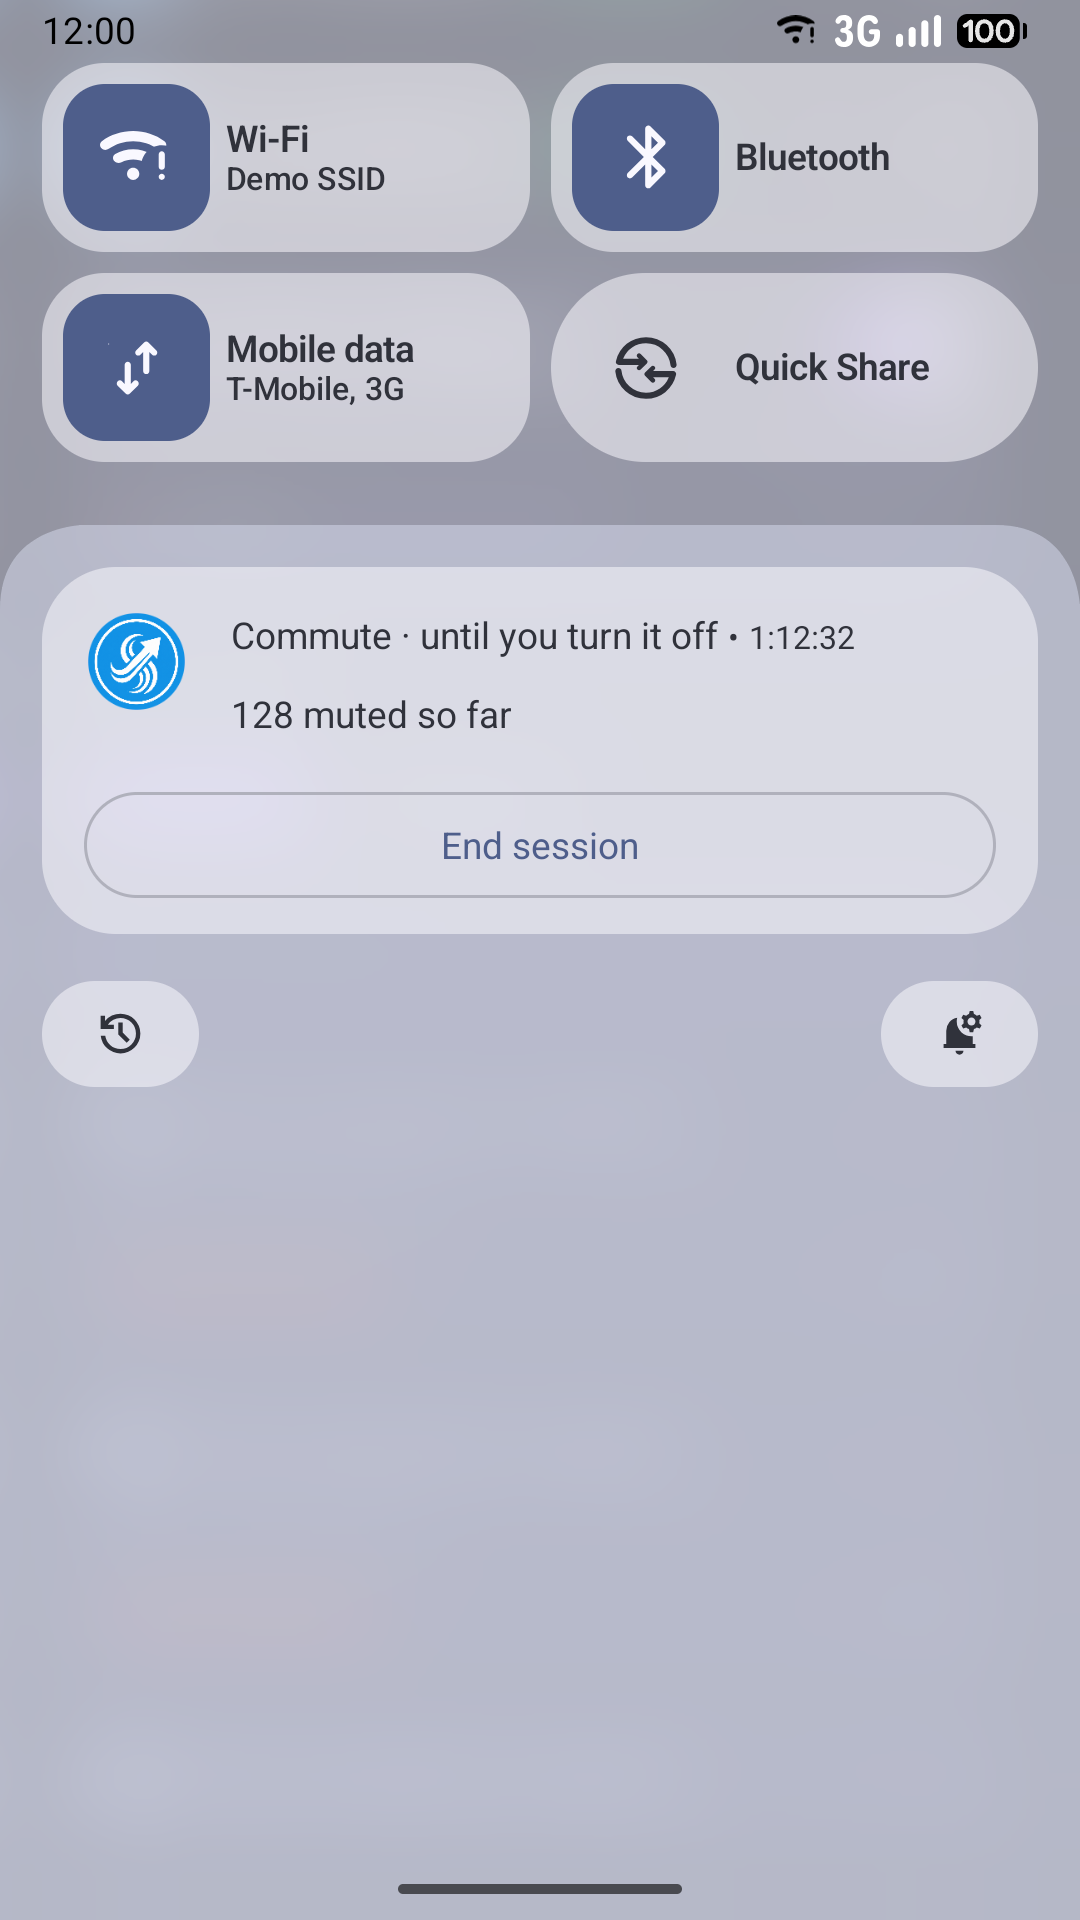
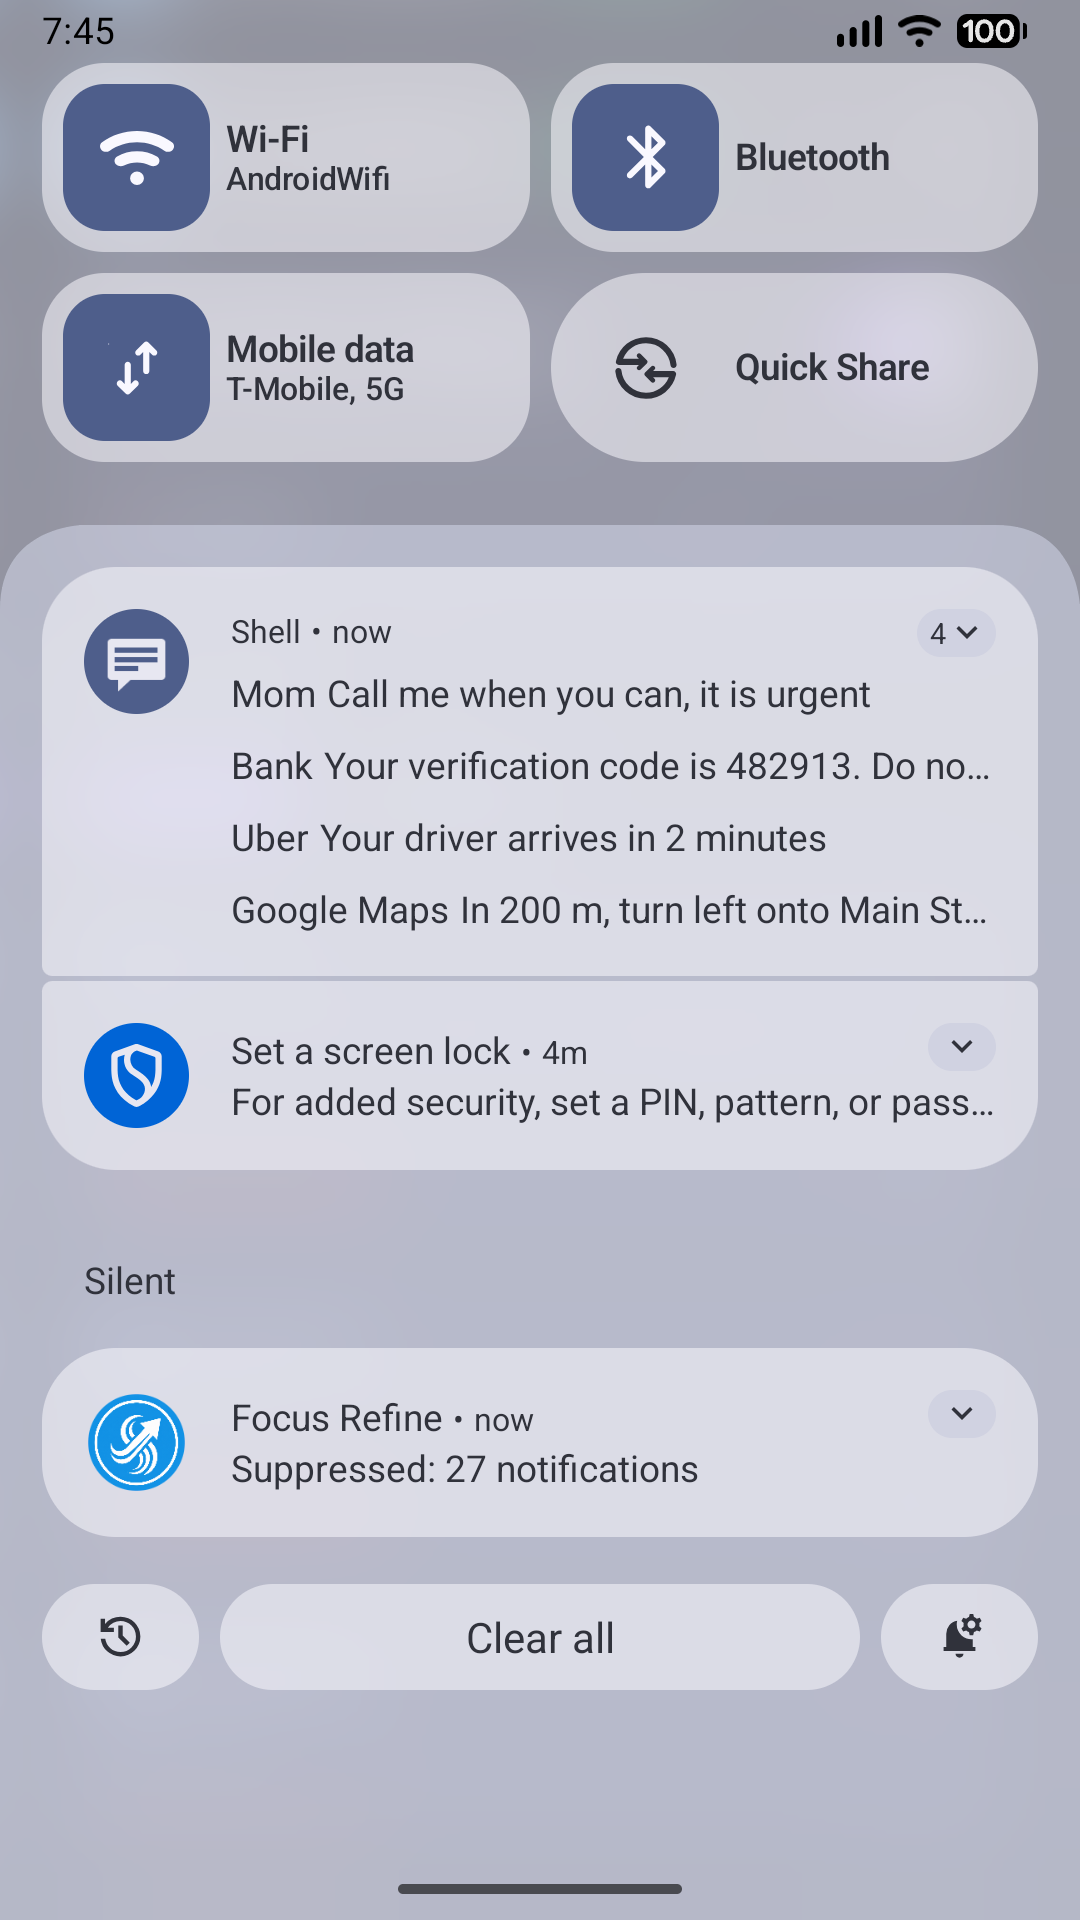
fix: leave group summaries alone so shown notifications stay in the shade
Android groups notifications under a summary. The summary has no text, so the
classifier muted it, and cancelling it removed every notification in its group,
including the ones that should be shown. A group summary is now skipped, and
each child is decided on its own.

diff --git a/app/src/main/java/com/focusrefine/app/NotificationFilterService.kt b/app/src/main/java/com/focusrefine/app/NotificationFilterService.kt
@@ -207,6 +207,12 @@ class NotificationFilterService : NotificationListenerService() {
             return
         }
 
+        // A group summary has no content of its own and stands for the notifications inside its group. Cancelling it
+        // would remove those children too, so a summary is never muted or counted; each child is decided on its own.
+        if (notification.flags and Notification.FLAG_GROUP_SUMMARY != 0) {
+            return
+        }
+
         val prefs = getSharedPreferences("FocusRefinePrefs", Context.MODE_PRIVATE)
         val isRunning = prefs.getBoolean("service_running", true)
         if (!isRunning) {

diff --git a/CLAUDE.md b/CLAUDE.md
@@ -46,7 +46,7 @@ CI uses JDK 17. Lint is non-fatal (`abortOnError = false`). The `release` build 
 ## Architecture
 
 ### Classification pipeline - the heart of the app
-`NotificationFilterService` (a `NotificationListenerService` that is also a `specialUse` foreground service) handles `onNotificationPosted`. It ignores its own package and `com.android.systemui`, returns early if the `service_running` pref is false, then on `Dispatchers.IO` calls `NotificationClassifier.classify(title, text, mode)` and persists/cancels based on the result. The same class is used by `HistoryReclassifier`, so **keep all decision logic in `NotificationClassifier` and nowhere else**. `ClassificationResult(isUrgent, explanation)` is a top-level data class.
+`NotificationFilterService` (a `NotificationListenerService` that is also a `specialUse` foreground service) handles `onNotificationPosted`. It ignores its own package and `com.android.systemui`, returns early if the `service_running` pref is false or the notification is a group summary (cancelling a summary removes its children, so summaries are never muted), then on `Dispatchers.IO` calls `NotificationClassifier.classify(title, text, mode)` and persists/cancels based on the result. The same class is used by `HistoryReclassifier`, so **keep all decision logic in `NotificationClassifier` and nowhere else**. `ClassificationResult(isUrgent, explanation)` is a top-level data class.
 
 `classify()` is a flat precedence chain, first match wins (a Mermaid flowchart is in `docs/ai_classification_and_modes.md` section 4):
 
